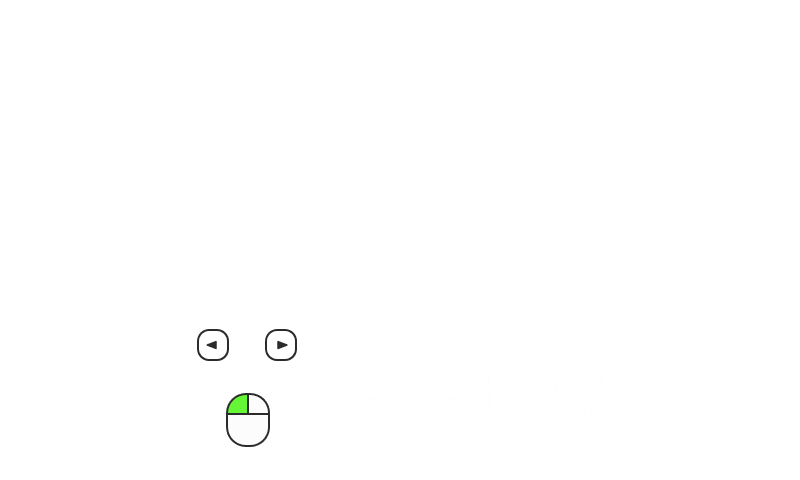
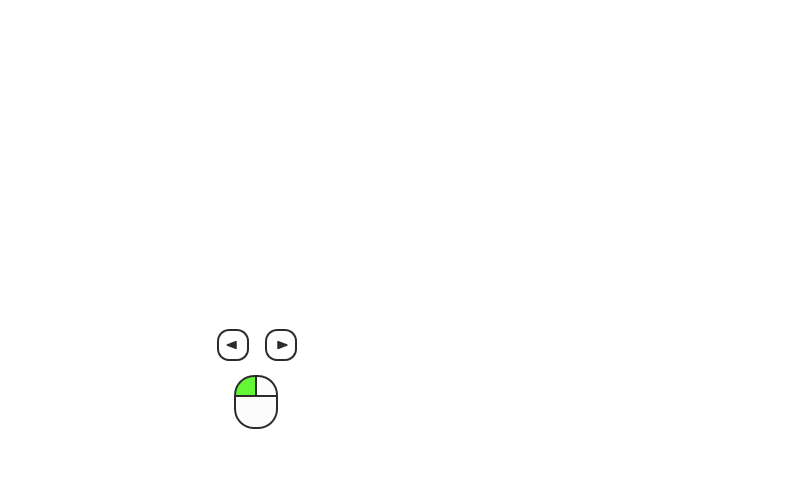
Implement splash overlay that goes away when controls pressed

Changed region(s): [[0.2812, 0.7812, 0.3438, 0.9375], [0.25, 0.6875, 0.3125, 0.75]]

diff --git a/javascripts/main.js b/javascripts/main.js
@@ -30,16 +30,6 @@ var skyGeometry = new THREE.CubeGeometry( 900, 900, 900 );
 var skyBox = new THREE.Mesh( skyGeometry, skyMaterial );
 scene.add( skyBox );
 
-// Controls overlay
-var overlayMap = THREE.ImageUtils.loadTexture( "controls_overlay.png" );
-var overlayMaterial = new THREE.MeshBasicMaterial({
-  map: overlayMap,
-  transparent: true, opacity: 0.5
-});
-var overlayGeometry = new THREE.PlaneGeometry( 800 / 96, 480 / 96 );
-var overlay = new THREE.Mesh( overlayGeometry, overlayMaterial );
-scene.add( overlay );
-
 // Game properties
 
 // Ground
@@ -163,12 +153,18 @@ var Sound = function ( source ) {
   aSource.src = source;
   audio.appendChild( aSource );
   this.play = function () {
+    audio.load();
     audio.play();
   };
 };
 var flapSound = new Sound( 'sounds/phaseJump2.mp3' );
 var passSound = new Sound( 'sounds/powerUp2.mp3' );
 var dieSound = new Sound( 'sounds/spaceTrash4.mp3' );
+
+// Splash screen
+var splash = new Splash( "controls_overlay.png", 800, 480 );
+
+var gameState = "start"; // start, playing
 
 // Reset everything
 function reset() {
@@ -180,43 +176,54 @@ function reset() {
 // Render loop
 function render() {
   requestAnimationFrame(render);
-  
-  pipes.update( scene );
 
-  if ( keysPressed.left ) {
-    fighter.flap(-1);
-  } else if ( keysPressed.right ) {
-    fighter.flap(1);
-  }
-  keysPressed = {};
-  fighter.update();
+  if ( gameState == "playing" ) {
+    pipes.update( scene );
   
-  // Check ground collision
-  if ( fighter.mesh.position.y < ground.position.y ) {
-    reset();
-    dieSound.play();
-  }
-  
-  if ( pipes.hasPipesPassed( fighter.mesh.position ) ) {
-    // A set of pipes has passed the figher; check if the figher flew through it
-    if ( pipes.isFighterCollides( fighter.mesh.position ) ) {
-      // We've hit a pipe; TODO: die
-      reset();
-      dieSound.play();
-    } else {
-      // Flew through pipes, success!
-      score.change( 1 );
-      if ( score.value > highScore.value ) {
-        highScore.set( score.value );
-      }
-      passSound.play();
+    if ( keysPressed.left ) {
+      fighter.flap(-1);
+    } else if ( keysPressed.right ) {
+      fighter.flap(1);
     }
-    console.log( "Score: " + score );
+    keysPressed = {};
+    fighter.update();
+    
+    // Check ground collision
+    if ( fighter.mesh.position.y < ground.position.y ) {
+      gameState = "start";
+      dieSound.play();
+    }
+    
+    if ( pipes.hasPipesPassed( fighter.mesh.position ) ) {
+      // A set of pipes has passed the figher; check if the figher flew through it
+      if ( pipes.isFighterCollides( fighter.mesh.position ) ) {
+        // We've hit a pipe; TODO: die
+        gameState = "start";
+        dieSound.play();
+      } else {
+        // Flew through pipes, success!
+        score.change( 1 );
+        if ( score.value > highScore.value ) {
+          highScore.set( score.value );
+        }
+        passSound.play();
+      }
+      console.log( "Score: " + score );
+    }
+    
+    pipes.destroyCompletePipes( scene );
   }
-  
-  pipes.destroyCompletePipes( scene );
   
   renderer.render(scene, camera);
+  
+  if ( gameState == "start" ) {
+    renderer.autoClear = false;
+    splash.render( renderer );
+    if ( keysPressed.left || keysPressed.right ) {
+      gameState = "playing";
+      reset();
+    }
+  }
 }
 
 function onDocumentMouseDown( event ) {

diff --git a/javascripts/splash.js b/javascripts/splash.js
@@ -1,0 +1,24 @@
+var Splash = function( path, width, height ) {
+  this.scene = new THREE.Scene();
+  var aspectRatio = window.innerWidth / window.innerHeight;
+  var near = 0.1;
+  var far = 1000;
+  var cameraScale = 15;
+  this.camera = new THREE.OrthographicCamera(
+    cameraScale * aspectRatio / - 2, cameraScale * aspectRatio / 2,
+    cameraScale / 2, cameraScale / - 2, near, far );
+  this.camera.position.z = 5;
+  var matMap = THREE.ImageUtils.loadTexture( path );
+  var material = new THREE.MeshBasicMaterial({
+    map : matMap,
+    transparent : true,
+    opacity : 0.5
+  });
+  var geometry = new THREE.PlaneGeometry( width * 0.03, height * 0.03 );
+  this.mesh = new THREE.Mesh( geometry, material );
+  this.scene.add( this.mesh );
+  
+  this.render = function( renderer ) {
+    renderer.render( this.scene, this.camera );
+  };
+};

diff --git a/javascripts/pipe.js b/javascripts/pipe.js
@@ -81,7 +81,7 @@ var Pipe = function( width, height, hasOpenSegment ) {
       }
     }
     return false;
-  }
+  };
 };
 
 var PipeMaker = function( numPipes, numLanes, laneSizeTotal, heightTotal ) {
@@ -114,7 +114,7 @@ var PipeMaker = function( numPipes, numLanes, laneSizeTotal, heightTotal ) {
     // Also add a no-open-segment at the left and right
     for ( var i = 0; i < this.numLanes; i++ ) {
     var width = this.laneSizeTotal / this.numLanes;
-      var hasOpenSegment = i != 0 && i != this.numLanes - 1;
+      var hasOpenSegment = i !== 0 && i != this.numLanes - 1;
       var pipe = new Pipe( width, this.heightTotal, hasOpenSegment );
       pipe.setX( getLaneX( i ) );
       pipe.setZ( this.zStart );

diff --git a/javascripts/score.js b/javascripts/score.js
@@ -5,7 +5,7 @@ var Score = function() {
   this.scoreText.style.top = 1 + "%";
   this.scoreText.style.left = 1 + "%";
   this.scoreText.style.fontFamily = 'Sans-serif';
-  this.scoreText.style.color = 'dark blue';
+  this.scoreText.style.color = 'DarkSlateGray';
   this.scoreText.style.fontSize = "24px";
   document.body.appendChild( this.scoreText );
   
@@ -29,7 +29,7 @@ var HighScore = function() {
   this.scoreText.style.left = 1 + "%";
   //this.scoreText.
   this.scoreText.style.fontFamily = 'Sans-serif';
-  this.scoreText.style.color = 'dark blue';
+  this.scoreText.style.color = 'DarkSlateGray';
   this.scoreText.style.fontSize = "24px";
   document.body.appendChild( this.scoreText );
   

diff --git a/index.html b/index.html
@@ -17,6 +17,7 @@
     <script src="javascripts/ColladaLoader.js"></script>
     <script src="javascripts/score.js"></script>
     <script src="javascripts/pipe.js"></script>
+    <script src="javascripts/splash.js"></script>
     <script src="javascripts/main.js"></script>
   </body>
 </html>
